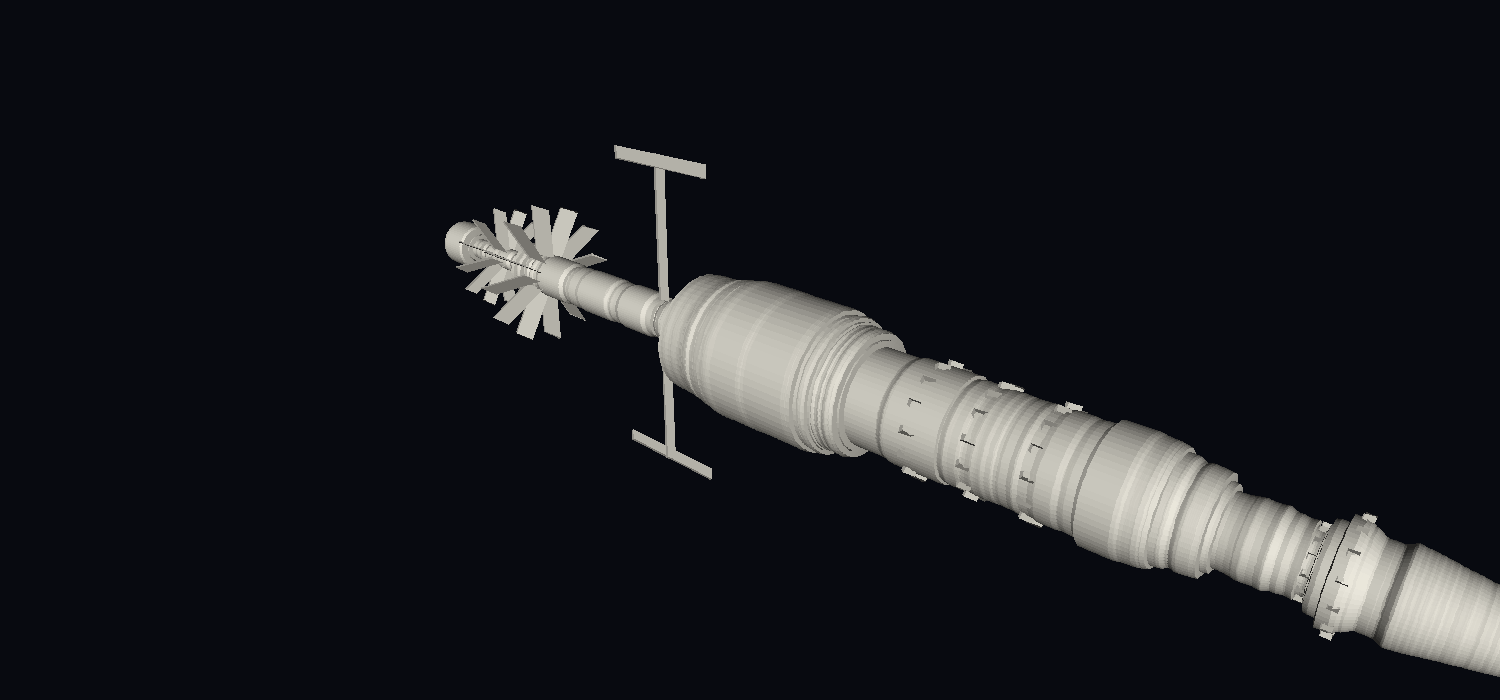
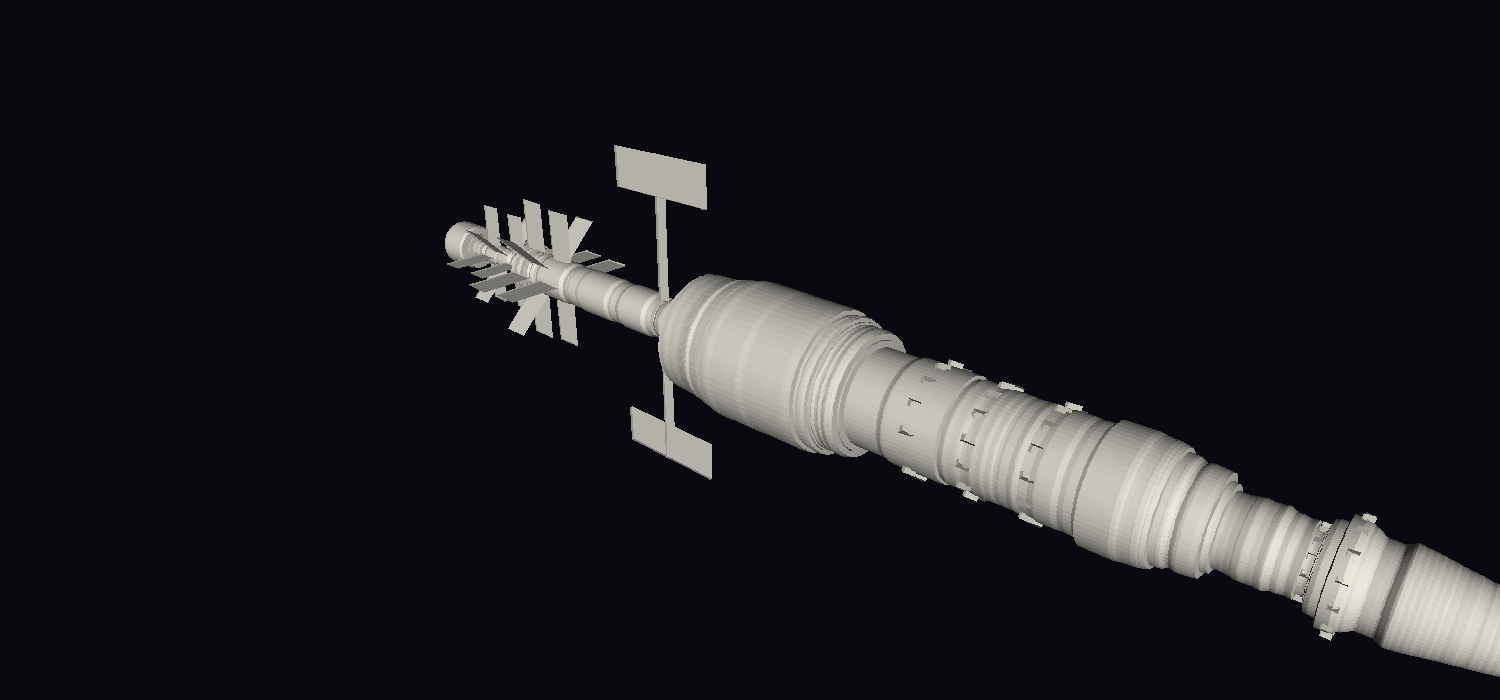
Distribute radiator fins into assemblies and deepen the comms grid panel
Rendering the components showed two things reading wrong. The cooling fins
crowded into a shuttlecock at a single z, and the communications grid rendered
as a thin I-beam.

For the fins, the Contract 5 profile shows the radiators as a small number of
discrete assemblies along the spine rather than one ring. With a total count of
12 that reconciles to 3 assemblies of 4, which also explains why 12 appears in
the Exterior map as a single figure covering the whole system. radial_array now
takes a rings parameter and clocks successive assemblies so they do not line up
down the spine.

The comms grid panel had 893 m of length but only 90 m of radial depth, so it
read as a crossbar. Now 300 m deep and it reads as an array structure.

STATE.md records what is still crude: box primitives throughout, no truss
structure, no greebling, and the domes, rotundas, docking ports and sensor
arrays still unplaced.

Claude-Session: https://claude.ai/code/session_01LQinCXNhejLFW1oQqrfNCU

Changed region(s): [[0.3067, 0.27, 0.4293, 0.51], [0.3987, 0.21, 0.4907, 0.3], [0.3987, 0.57, 0.4907, 0.66]]

diff --git a/station/components.py b/station/components.py
@@ -47,13 +47,22 @@ def radial_array(spec, profile):
     """
     verts, tris = [], []
     z0, z1 = spec["z0"], spec["z1"]
-    zc = (z0 + z1) / 2.0
-    r0 = radius_at(profile, zc)
     span, chord, th = spec["span_m"], spec["chord_m"], spec["thickness_m"] / 2.0
-    za, zb = zc - chord / 2.0, zc + chord / 2.0
+    # The Contract 5 profile shows the radiators as a small number of discrete
+    # assemblies along the spine, not one crowded ring. With a total count of 12
+    # that reconciles to 3 assemblies of 4 -- which is also why 12 appears in the
+    # Exterior map as a single figure covering the whole system.
+    n_rings = spec.get("rings", 1)
+    per_ring = max(1, spec["count"] // n_rings)
 
-    for i in range(spec["count"]):
-        a = 2.0 * math.pi * i / spec["count"]
+    for idx in range(spec["count"]):
+        ring = idx // per_ring
+        i = idx % per_ring
+        zc = (z0 + (z1 - z0) * (ring + 0.5) / n_rings) if n_rings > 1 else (z0 + z1) / 2.0
+        r0 = radius_at(profile, zc)
+        za, zb = zc - chord / 2.0, zc + chord / 2.0
+        # Clock successive assemblies so they do not line up down the spine.
+        a = 2.0 * math.pi * i / per_ring + ring * math.pi / per_ring
         ca, sa = math.cos(a), math.sin(a)
         # Radial direction (outward) and tangential direction (plate thickness).
         rx, ry = ca, sa
@@ -102,7 +111,7 @@ def pylon_pair(spec, profile):
         rt = r0 + span
         pw = gw / 2.0
         c = []
-        for rr in (rt - 90, rt):
+        for rr in (rt - spec.get("panel_depth_m", 90), rt):
             for zz in (zc - pw, zc + pw):
                 c.append((ca * rr - tx * 9, sa * rr - ty * 9, zz))
         c = [c[0], c[1], c[3], c[2]]

diff --git a/STATE.md b/STATE.md
@@ -97,13 +97,22 @@ pylons, cobra bays, cargo modules, domes. Interiors stay blocked on C-003 and C-
 The pipeline is correct; **the geometry is crude.** Components are box primitives placed by
 rule. Specifically still wrong:
 
-- **Cooling fins read as a shuttlecock** clustered at one z, where reference shows fins in
-  distinct grouped assemblies distributed along the spine.
-- **The communications grid renders as a thin I-beam.** The panel is 893 m along z but only
-  90 m radially, so it reads as a crossbar rather than an array structure.
-- **Solar arrays visually merge with the cooling fins** rather than reading as a separate
-  system.
-- No greebling, no panel lines, no surface articulation anywhere yet.
+**Fixed after inspection:**
+
+- Cooling fins clustered into a shuttlecock at one z. Contract 5 shows the radiators as a
+  small number of discrete assemblies along the spine, and with a total of 12 that reconciles
+  to **3 assemblies of 4** -- which is also why 12 appears in the Exterior map as one figure
+  covering the whole system. `radial_array` now takes a `rings` parameter and clocks
+  successive assemblies so they do not line up down the spine.
+- The communications grid rendered as a thin I-beam because the panel had 893 m of length but
+  only 90 m of radial depth. Now 300 m deep, so it reads as an array.
+
+**Still wrong:**
+
+- Components are box primitives throughout. No taper, no truss structure, no articulation.
+- Solar arrays and cooling fins still read as the same kind of object.
+- No greebling, no panel lines, no surface detail anywhere.
+- Observation domes, rotundas, docking ports, sensor and deflector arrays not yet placed.
 
 These need reference-driven refinement against `01-station-exterior/` before they are
 believable. The value delivered so far is the *pipeline*, not the shapes.
